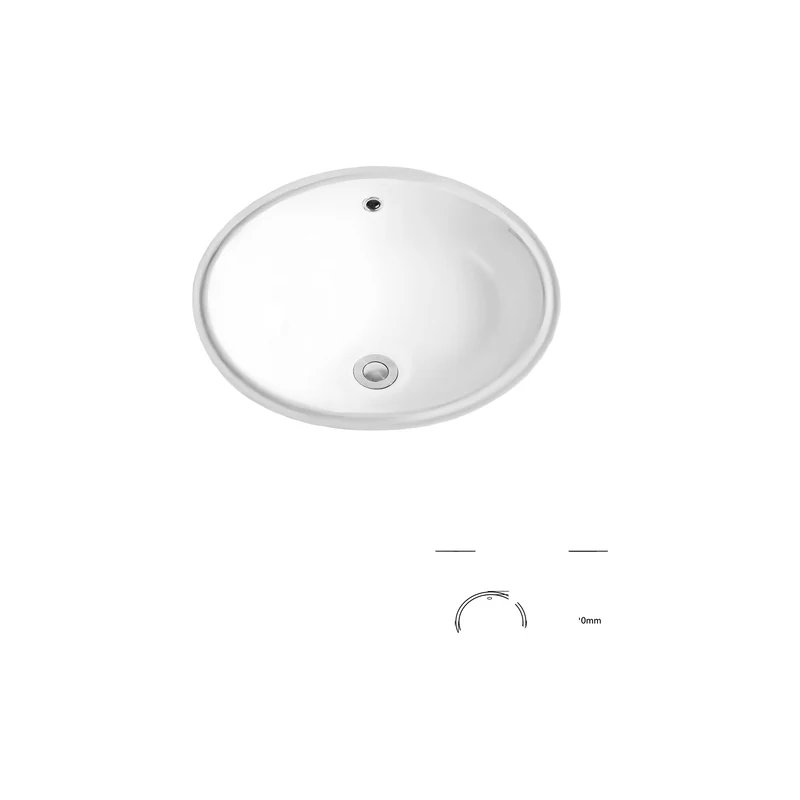
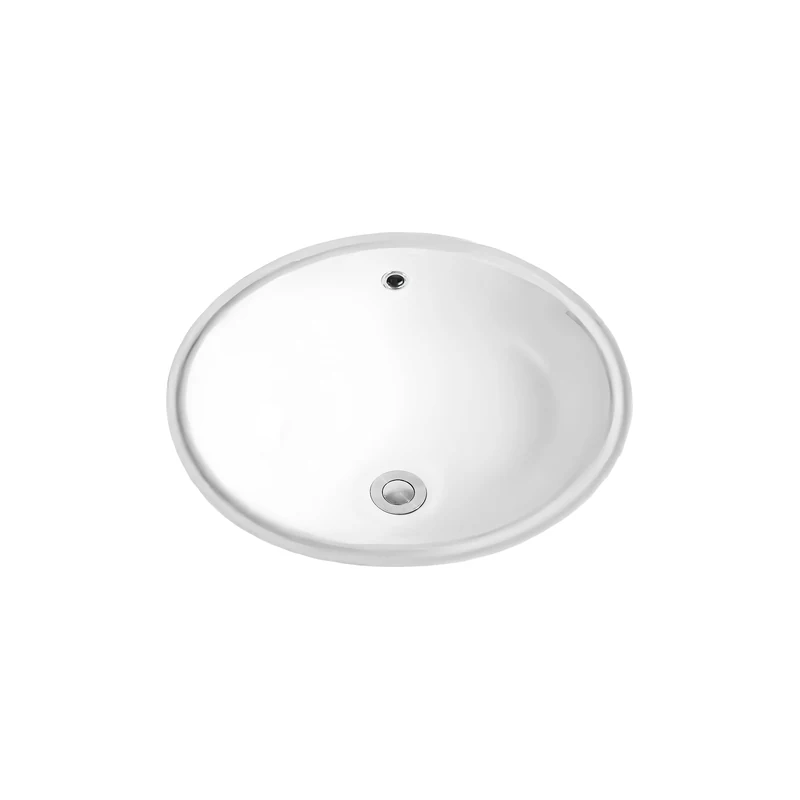
Washbasin cards: connected-components basin detection
Fixes two issues the fuzz-trim approach couldn't handle:
- UB0422 (and other 产品首页展示图 sources) carried a small
  dimension drawing in the lower part of the source. A plain
  -trim included it in the bounding box, so centering the
  basin+drawing pair pushed the basin to the top-left.
- Watermark text top-left similarly skewed the trim box.

New pipeline: threshold the source, run 8-connected component
analysis, pick the largest content blob (the basin — area ~2.4M
vs ~12k for the drawing, ~4k for the watermark), crop to its
bounding box +4% padding, then trim/resize/centre. Watermark
and dimension drawing are excluded automatically regardless of
where they sit. All 38 washbasins re-rendered, 0 fallbacks.

Cards cache-busted ?v=3 -> ?v=4.

diff --git a/products/index.html b/products/index.html
@@ -318,7 +318,7 @@ const ICONS = window.CHENGDA_ICONS || {};
 const CATS = {
   washbasin: { title:'Washbasin.', sub:['38 models','Semi-recessed CB · Undercounter UB','CUPC certified'], icon:'washbasin',
     tabs:[{id:'all',label:'All',count:38},{id:'UB01',label:'UB01 Slanted rect.',count:11},{id:'UB02',label:'UB02 Stepped rect.',count:3},{id:'UB03',label:'UB03 Flat rect.',count:5},{id:'UB04',label:'UB04 Slanted round',count:11},{id:'UB05',label:'UB05 Wave rect.',count:2},{id:'CB01',label:'CB01 Round · no hole',count:3},{id:'CB02',label:'CB02 Round · tap hole',count:3}],
-    items:[{code:"UB0116",name:"UB0116 · Slanted rectangular · 16″",dims:"410 × 290 × 180 mm",sub:"UB01",img:"/assets/products/UB0116/card.webp?v=3"},{code:"UB0118",name:"UB0118 · Slanted rectangular · 18″",dims:"445 × 340 × 200 mm",sub:"UB01",img:"/assets/products/UB0118/card.webp?v=3"},{code:"UB0118-A",name:"UB0118-A · Slanted rectangular · 18″ · A",dims:"455 × 345 × 200 mm",sub:"UB01",img:"/assets/products/UB0118-A/card.webp?v=3"},{code:"UB0120",name:"UB0120 · Slanted rectangular · 20″",dims:"525 × 385 × 190 mm",sub:"UB01",img:"/assets/products/UB0120/card.webp?v=3"},{code:"UB0121",name:"UB0121 · Slanted rectangular · 21″",dims:"540 × 370 × 190 mm",sub:"UB01",img:"/assets/products/UB0121/card.webp?v=3"},{code:"UB0121-D",name:"UB0121-D · Slanted rectangular · 21″ · D",dims:"21″",sub:"UB01",img:"/assets/products/UB0121-D/card.webp?v=3"},{code:"UB0122",name:"UB0122 · Slanted rectangular · 22″",dims:"545 × 375 × 195 mm",sub:"UB01",img:"/assets/products/UB0122/card.webp?v=3"},{code:"UB0124",name:"UB0124 · Slanted rectangular · 24″",dims:"24″",sub:"UB01",img:"/assets/products/UB0124/card.webp?v=3"},{code:"UB0124-A",name:"UB0124-A · Slanted rectangular · 24″ · A",dims:"600 × 400 × 190 mm",sub:"UB01",img:"/assets/products/UB0124-A/card.webp?v=3"},{code:"UB0124-D",name:"UB0124-D · Slanted rectangular · 24″ · D",dims:"24″",sub:"UB01",img:"/assets/products/UB0124-D/card.webp?v=3"},{code:"UB0126",name:"UB0126 · Slanted rectangular · 26″",dims:"26″",sub:"UB01",img:"/assets/products/UB0126/card.webp?v=3"},{code:"UB0218",name:"UB0218 · Stepped rectangular · 18″",dims:"440 × 310 × 190 mm",sub:"UB02",img:"/assets/products/UB0218/card.webp?v=3"},{code:"UB0219",name:"UB0219 · Stepped rectangular · 19″",dims:"510 × 340 × 195 mm",sub:"UB02",img:"/assets/products/UB0219/card.webp?v=3"},{code:"UB0221",name:"UB0221 · Stepped rectangular · 21″",dims:"530 × 345 × 185 mm",sub:"UB02",img:"/assets/products/UB0221/card.webp?v=3"},{code:"UB0316",name:"UB0316 · Flat-base rectangular · 16″",dims:"16″",sub:"UB03",img:"/assets/products/UB0316/card.webp?v=3"},{code:"UB0318",name:"UB0318 · Flat-base rectangular · 18″",dims:"18″",sub:"UB03",img:"/assets/products/UB0318/card.webp?v=3"},{code:"UB0320",name:"UB0320 · Flat-base rectangular · 20″",dims:"510 × 360 × 180 mm",sub:"UB03",img:"/assets/products/UB0320/card.webp?v=3"},{code:"UB0322",name:"UB0322 · Flat-base rectangular · 22″",dims:"540 × 380 × 185 mm",sub:"UB03",img:"/assets/products/UB0322/card.webp?v=3"},{code:"UB0324",name:"UB0324 · Flat-base rectangular · 24″",dims:"600 × 380 × 190 mm",sub:"UB03",img:"/assets/products/UB0324/card.webp?v=3"},{code:"UB0413",name:"UB0413 · Slanted round · 13″",dims:"335 × 290 × 145 mm",sub:"UB04",img:"/assets/products/UB0413/card.webp?v=3"},{code:"UB0414",name:"UB0414 · Slanted round · 14″",dims:"370 × 315 × 150 mm",sub:"UB04",img:"/assets/products/UB0414/card.webp?v=3"},{code:"UB0415",name:"UB0415 · Slanted round · 15″",dims:"380 × 330 × 180 mm",sub:"UB04",img:"/assets/products/UB0415/card.webp?v=3"},{code:"UB0416",name:"UB0416 · Slanted round · 16″",dims:"420 × 340 × 170 mm",sub:"UB04",img:"/assets/products/UB0416/card.webp?v=3"},{code:"UB0417",name:"UB0417 · Slanted round · 17″",dims:"450 × 370 × 165 mm",sub:"UB04",img:"/assets/products/UB0417/card.webp?v=3"},{code:"UB0418",name:"UB0418 · Slanted round · 18″",dims:"480 × 385 × 175 mm",sub:"UB04",img:"/assets/products/UB0418/card.webp?v=3"},{code:"UB0418-1",name:"UB0418-1 · Slanted round · 18″ · 1",dims:"410 × 335 × 170 mm",sub:"UB04",img:"/assets/products/UB0418-1/card.webp?v=3"},{code:"UB0420",name:"UB0420 · Slanted round · 20″",dims:"490 × 400 × 200 mm",sub:"UB04",img:"/assets/products/UB0420/card.webp?v=3"},{code:"UB0420-1",name:"UB0420-1 · Slanted round · 20″ · 1",dims:"470 × 400 × 195 mm",sub:"UB04",img:"/assets/products/UB0420-1/card.webp?v=3"},{code:"UB0422",name:"UB0422 · Slanted round · 22″",dims:"535 × 435 × 200 mm",sub:"UB04",img:"/assets/products/UB0422/card.webp?v=3"},{code:"UB0424",name:"UB0424 · Slanted round · 24″",dims:"24″",sub:"UB04",img:"/assets/products/UB0424/card.webp?v=3"},{code:"UB0522",name:"UB0522 · Wave-base rectangular · 22″",dims:"22″",sub:"UB05",img:"/assets/products/UB0522/card.webp?v=3"},{code:"UB0523",name:"UB0523 · Wave-base rectangular · 23″",dims:"23″",sub:"UB05",img:"/assets/products/UB0523/card.webp?v=3"},{code:"CB0116",name:"CB0116 · Slanted round · no tap hole · 16″",dims:"410 × 310 × 180 mm",sub:"CB01",img:"/assets/products/CB0116/card.webp?v=3"},{code:"CB0118",name:"CB0118 · Slanted round · no tap hole · 18″",dims:"400 × 400 × 180 mm",sub:"CB01",img:"/assets/products/CB0118/card.webp?v=3"},{code:"CB0120",name:"CB0120 · Slanted round · no tap hole · 20″",dims:"510 × 420 × 200 mm",sub:"CB01",img:"/assets/products/CB0120/card.webp?v=3"},{code:"CB0218",name:"CB0218 · Slanted round · with tap hole · 18″",dims:"470 × 415 × 175 mm",sub:"CB02",img:"/assets/products/CB0218/card.webp?v=3"},{code:"CB0220",name:"CB0220 · Slanted round · with tap hole · 20″",dims:"510 × 460 × 200 mm",sub:"CB02",img:"/assets/products/CB0220/card.webp?v=3"},{code:"CB0222",name:"CB0222 · Slanted round · with tap hole · 22″",dims:"540 × 480 × 200 mm",sub:"CB02",img:"/assets/products/CB0222/card.webp?v=3"}]},
+    items:[{code:"UB0116",name:"UB0116 · Slanted rectangular · 16″",dims:"410 × 290 × 180 mm",sub:"UB01",img:"/assets/products/UB0116/card.webp?v=4"},{code:"UB0118",name:"UB0118 · Slanted rectangular · 18″",dims:"445 × 340 × 200 mm",sub:"UB01",img:"/assets/products/UB0118/card.webp?v=4"},{code:"UB0118-A",name:"UB0118-A · Slanted rectangular · 18″ · A",dims:"455 × 345 × 200 mm",sub:"UB01",img:"/assets/products/UB0118-A/card.webp?v=4"},{code:"UB0120",name:"UB0120 · Slanted rectangular · 20″",dims:"525 × 385 × 190 mm",sub:"UB01",img:"/assets/products/UB0120/card.webp?v=4"},{code:"UB0121",name:"UB0121 · Slanted rectangular · 21″",dims:"540 × 370 × 190 mm",sub:"UB01",img:"/assets/products/UB0121/card.webp?v=4"},{code:"UB0121-D",name:"UB0121-D · Slanted rectangular · 21″ · D",dims:"21″",sub:"UB01",img:"/assets/products/UB0121-D/card.webp?v=4"},{code:"UB0122",name:"UB0122 · Slanted rectangular · 22″",dims:"545 × 375 × 195 mm",sub:"UB01",img:"/assets/products/UB0122/card.webp?v=4"},{code:"UB0124",name:"UB0124 · Slanted rectangular · 24″",dims:"24″",sub:"UB01",img:"/assets/products/UB0124/card.webp?v=4"},{code:"UB0124-A",name:"UB0124-A · Slanted rectangular · 24″ · A",dims:"600 × 400 × 190 mm",sub:"UB01",img:"/assets/products/UB0124-A/card.webp?v=4"},{code:"UB0124-D",name:"UB0124-D · Slanted rectangular · 24″ · D",dims:"24″",sub:"UB01",img:"/assets/products/UB0124-D/card.webp?v=4"},{code:"UB0126",name:"UB0126 · Slanted rectangular · 26″",dims:"26″",sub:"UB01",img:"/assets/products/UB0126/card.webp?v=4"},{code:"UB0218",name:"UB0218 · Stepped rectangular · 18″",dims:"440 × 310 × 190 mm",sub:"UB02",img:"/assets/products/UB0218/card.webp?v=4"},{code:"UB0219",name:"UB0219 · Stepped rectangular · 19″",dims:"510 × 340 × 195 mm",sub:"UB02",img:"/assets/products/UB0219/card.webp?v=4"},{code:"UB0221",name:"UB0221 · Stepped rectangular · 21″",dims:"530 × 345 × 185 mm",sub:"UB02",img:"/assets/products/UB0221/card.webp?v=4"},{code:"UB0316",name:"UB0316 · Flat-base rectangular · 16″",dims:"16″",sub:"UB03",img:"/assets/products/UB0316/card.webp?v=4"},{code:"UB0318",name:"UB0318 · Flat-base rectangular · 18″",dims:"18″",sub:"UB03",img:"/assets/products/UB0318/card.webp?v=4"},{code:"UB0320",name:"UB0320 · Flat-base rectangular · 20″",dims:"510 × 360 × 180 mm",sub:"UB03",img:"/assets/products/UB0320/card.webp?v=4"},{code:"UB0322",name:"UB0322 · Flat-base rectangular · 22″",dims:"540 × 380 × 185 mm",sub:"UB03",img:"/assets/products/UB0322/card.webp?v=4"},{code:"UB0324",name:"UB0324 · Flat-base rectangular · 24″",dims:"600 × 380 × 190 mm",sub:"UB03",img:"/assets/products/UB0324/card.webp?v=4"},{code:"UB0413",name:"UB0413 · Slanted round · 13″",dims:"335 × 290 × 145 mm",sub:"UB04",img:"/assets/products/UB0413/card.webp?v=4"},{code:"UB0414",name:"UB0414 · Slanted round · 14″",dims:"370 × 315 × 150 mm",sub:"UB04",img:"/assets/products/UB0414/card.webp?v=4"},{code:"UB0415",name:"UB0415 · Slanted round · 15″",dims:"380 × 330 × 180 mm",sub:"UB04",img:"/assets/products/UB0415/card.webp?v=4"},{code:"UB0416",name:"UB0416 · Slanted round · 16″",dims:"420 × 340 × 170 mm",sub:"UB04",img:"/assets/products/UB0416/card.webp?v=4"},{code:"UB0417",name:"UB0417 · Slanted round · 17″",dims:"450 × 370 × 165 mm",sub:"UB04",img:"/assets/products/UB0417/card.webp?v=4"},{code:"UB0418",name:"UB0418 · Slanted round · 18″",dims:"480 × 385 × 175 mm",sub:"UB04",img:"/assets/products/UB0418/card.webp?v=4"},{code:"UB0418-1",name:"UB0418-1 · Slanted round · 18″ · 1",dims:"410 × 335 × 170 mm",sub:"UB04",img:"/assets/products/UB0418-1/card.webp?v=4"},{code:"UB0420",name:"UB0420 · Slanted round · 20″",dims:"490 × 400 × 200 mm",sub:"UB04",img:"/assets/products/UB0420/card.webp?v=4"},{code:"UB0420-1",name:"UB0420-1 · Slanted round · 20″ · 1",dims:"470 × 400 × 195 mm",sub:"UB04",img:"/assets/products/UB0420-1/card.webp?v=4"},{code:"UB0422",name:"UB0422 · Slanted round · 22″",dims:"535 × 435 × 200 mm",sub:"UB04",img:"/assets/products/UB0422/card.webp?v=4"},{code:"UB0424",name:"UB0424 · Slanted round · 24″",dims:"24″",sub:"UB04",img:"/assets/products/UB0424/card.webp?v=4"},{code:"UB0522",name:"UB0522 · Wave-base rectangular · 22″",dims:"22″",sub:"UB05",img:"/assets/products/UB0522/card.webp?v=4"},{code:"UB0523",name:"UB0523 · Wave-base rectangular · 23″",dims:"23″",sub:"UB05",img:"/assets/products/UB0523/card.webp?v=4"},{code:"CB0116",name:"CB0116 · Slanted round · no tap hole · 16″",dims:"410 × 310 × 180 mm",sub:"CB01",img:"/assets/products/CB0116/card.webp?v=4"},{code:"CB0118",name:"CB0118 · Slanted round · no tap hole · 18″",dims:"400 × 400 × 180 mm",sub:"CB01",img:"/assets/products/CB0118/card.webp?v=4"},{code:"CB0120",name:"CB0120 · Slanted round · no tap hole · 20″",dims:"510 × 420 × 200 mm",sub:"CB01",img:"/assets/products/CB0120/card.webp?v=4"},{code:"CB0218",name:"CB0218 · Slanted round · with tap hole · 18″",dims:"470 × 415 × 175 mm",sub:"CB02",img:"/assets/products/CB0218/card.webp?v=4"},{code:"CB0220",name:"CB0220 · Slanted round · with tap hole · 20″",dims:"510 × 460 × 200 mm",sub:"CB02",img:"/assets/products/CB0220/card.webp?v=4"},{code:"CB0222",name:"CB0222 · Slanted round · with tap hole · 22″",dims:"540 × 480 × 200 mm",sub:"CB02",img:"/assets/products/CB0222/card.webp?v=4"}]},
   pedestal: { title:'Pedestal Basin.', sub:['54 models','Floor pedestal PB · Wall-hung basin WB','CUPC certified'], icon:'pedestal',
     tabs:[{id:'all',label:'All',count:54},{id:'floor',label:'Floor pedestal',count:45},{id:'wall',label:'Wall-hung basin',count:9}],
     items:[{code:"PB101",name:"PB101 · Floor pedestal basin · single tap hole",dims:"520 × 550 × 850 mm",sub:"floor",img:"/assets/products/PB101/card.webp?v=2"},{code:"PB102",name:"PB102 · Floor pedestal basin · single tap hole",dims:"500 × 500 × 850 mm",sub:"floor",img:"/assets/products/PB102/card.webp?v=2"},{code:"PB103",name:"PB103 · Floor pedestal basin · single tap hole",dims:"580 × 420 × 855 mm",sub:"floor",img:"/assets/products/PB103/card.webp?v=2"},{code:"PB104",name:"PB104 · Floor pedestal basin · single tap hole",dims:"425 × 425 × 950 mm",sub:"floor",img:"/assets/products/PB104/card.webp?v=2"},{code:"PB105",name:"PB105 · Floor pedestal basin · single tap hole",dims:"460 × 460 × 860 mm",sub:"floor",img:"/assets/products/PB105/card.webp?v=2"},{code:"PB106",name:"PB106 · Floor pedestal basin · single tap hole",dims:"540 × 400 × 840 mm",sub:"floor",img:"/assets/products/PB106/card.webp?v=2"},{code:"PB107",name:"PB107 · Floor pedestal basin · single tap hole",dims:"550 × 480 × 850 mm",sub:"floor",img:"/assets/products/PB107/card.webp?v=2"},{code:"PB108",name:"PB108 · Floor pedestal basin · single tap hole",dims:"510 × 460 × 830 mm",sub:"floor",img:"/assets/products/PB108/card.webp?v=2"},{code:"PB109",name:"PB109 · Floor pedestal basin · single tap hole",dims:"450 × 460 × 960 mm",sub:"floor",img:"/assets/products/PB109/card.webp?v=2"},{code:"PB110",name:"PB110 · Floor pedestal basin · single tap hole",dims:"460 × 460 × 850 mm",sub:"floor",img:"/assets/products/PB110/card.webp?v=2"},{code:"PB111",name:"PB111 · Floor pedestal basin · single tap hole",dims:"375 × 360 × 830 mm",sub:"floor",img:"/assets/products/PB111/card.webp?v=2"},{code:"PB112",name:"PB112 · Floor pedestal basin · single tap hole",dims:"340 × 320 × 820 mm",sub:"floor",img:"/assets/products/PB112/card.webp?v=2"},{code:"PB113",name:"PB113 · Floor pedestal basin · single tap hole",dims:"470 × 320 × 840 mm",sub:"floor",img:"/assets/products/PB113/card.webp?v=2"},{code:"PB114",name:"PB114 · Floor pedestal basin · single tap hole",dims:"455 × 385 × 870 mm",sub:"floor",img:"/assets/products/PB114/card.webp?v=2"},{code:"PB115",name:"PB115 · Floor pedestal basin · single tap hole",dims:"460 × 340 × 850 mm",sub:"floor",img:"/assets/products/PB115/card.webp?v=2"},{code:"PB116",name:"PB116 · Floor pedestal basin · single tap hole",dims:"440 × 390 × 860 mm",sub:"floor",img:"/assets/products/PB116/card.webp?v=2"},{code:"PB117",name:"PB117 · Floor pedestal basin · single tap hole",dims:"—",sub:"floor",img:"/assets/products/PB117/card.webp?v=2"},{code:"PB118",name:"PB118 · Floor pedestal basin · single tap hole",dims:"—",sub:"floor",img:"/assets/products/PB118/card.webp?v=2"},{code:"PB119",name:"PB119 · Floor pedestal basin · single tap hole",dims:"—",sub:"floor",img:"/assets/products/PB119/card.webp?v=2"},{code:"PB120",name:"PB120 · Floor pedestal basin · single tap hole",dims:"—",sub:"floor",img:"/assets/products/PB120/card.webp?v=2"},{code:"PB121",name:"PB121 · Floor pedestal basin · single tap hole",dims:"—",sub:"floor",img:"/assets/products/PB121/card.webp?v=2"},{code:"PB122",name:"PB122 · Floor pedestal basin · single tap hole",dims:"—",sub:"floor",img:"/assets/products/PB122/card.webp?v=2"},{code:"PB123",name:"PB123 · Floor pedestal basin · single tap hole",dims:"—",sub:"floor",img:"/assets/products/PB123/card.webp?v=2"},{code:"PB124",name:"PB124 · Floor pedestal basin · single tap hole",dims:"—",sub:"floor",img:"/assets/products/PB124/card.webp?v=2"},{code:"PB125",name:"PB125 · Floor pedestal basin · single tap hole",dims:"—",sub:"floor",img:"/assets/products/PB125/card.webp?v=2"},{code:"PB201",name:"PB201 · Floor pedestal basin",dims:"460 × 460 × 850 mm",sub:"floor",img:"/assets/products/PB201/card.webp?v=2"},{code:"PB202",name:"PB202 · Floor pedestal basin",dims:"400 × 400 × 850 mm",sub:"floor",img:"/assets/products/PB202/card.webp?v=2"},{code:"PB203",name:"PB203 · Floor pedestal basin",dims:"460 × 460 × 830 mm",sub:"floor",img:"/assets/products/PB203/card.webp?v=2"},{code:"PB204",name:"PB204 · Floor pedestal basin",dims:"465 × 465 × 870 mm",sub:"floor",img:"/assets/products/PB204/card.webp?v=2"},{code:"PB205",name:"PB205 · Floor pedestal basin",dims:"400 × 400 × 850 mm",sub:"floor",img:"/assets/products/PB205/card.webp?v=2"},{code:"PB206",name:"PB206 · Floor pedestal basin",dims:"500 × 380 × 860 mm",sub:"floor",img:"/assets/products/PB206/card.webp?v=2"},{code:"PB207",name:"PB207 · Floor pedestal basin",dims:"625 × 420 × 845 mm",sub:"floor",img:"/assets/products/PB207/card.webp?v=2"},{code:"PB208",name:"PB208 · Floor pedestal basin",dims:"605 × 410 × 845 mm",sub:"floor",img:"/assets/products/PB208/card.webp?v=2"},{code:"PB209",name:"PB209 · Floor pedestal basin",dims:"470 × 400 × 870 mm",sub:"floor",img:"/assets/products/PB209/card.webp?v=2"},{code:"PB210",name:"PB210 · Floor pedestal basin",dims:"500 × 500 × 890 mm",sub:"floor",img:"/assets/products/PB210/card.webp?v=2"},{code:"PB211",name:"PB211 · Floor pedestal basin",dims:"360 × 360 × 860 mm",sub:"floor",img:"/assets/products/PB211/card.webp?v=2"},{code:"PB212",name:"PB212 · Floor pedestal basin",dims:"400 × 400 × 860 mm",sub:"floor",img:"/assets/products/PB212/card.webp?v=2"},{code:"PB213",name:"PB213 · Floor pedestal basin",dims:"—",sub:"floor",img:"/assets/products/PB213/card.webp?v=2"},{code:"PB214",name:"PB214 · Floor pedestal basin",dims:"—",sub:"floor",img:"/assets/products/PB214/card.webp?v=2"},{code:"PB215",name:"PB215 · Floor pedestal basin",dims:"—",sub:"floor",img:"/assets/products/PB215/card.webp?v=2"},{code:"PB216",name:"PB216 · Floor pedestal basin",dims:"—",sub:"floor",img:"/assets/products/PB216/card.webp?v=2"},{code:"PB217",name:"PB217 · Floor pedestal basin",dims:"—",sub:"floor",img:"/assets/products/PB217/card.webp?v=2"},{code:"PB218",name:"PB218 · Floor pedestal basin",dims:"—",sub:"floor",img:"/assets/products/PB218/card.webp?v=2"},{code:"PB219",name:"PB219 · Floor pedestal basin",dims:"—",sub:"floor",img:"/assets/products/PB219/card.webp?v=2"},{code:"PB220",name:"PB220 · Floor pedestal basin",dims:"—",sub:"floor",img:"/assets/products/PB220/card.webp?v=2"},{code:"WB100",name:"WB100 · Wall-hung basin",dims:"515 × 515 × 440 mm",sub:"wall",img:"/assets/products/WB100/card.webp?v=3"},{code:"WB101",name:"WB101 · Wall-hung basin",dims:"500 × 410 × 400 mm",sub:"wall",img:"/assets/products/WB101/card.webp?v=3"},{code:"WB102",name:"WB102 · Wall-hung basin",dims:"450 × 400 × 390 mm",sub:"wall",img:"/assets/products/WB102/card.webp?v=3"},{code:"WB103",name:"WB103 · Wall-hung basin",dims:"385 × 385 × 610 mm",sub:"wall",img:"/assets/products/WB103/card.webp?v=3"},{code:"WB104",name:"WB104 · Wall-hung basin",dims:"360 × 415 × 445 mm",sub:"wall",img:"/assets/products/WB104/card.webp?v=3"},{code:"WB105",name:"WB105 · Wall-hung basin",dims:"375 × 345 × 420 mm",sub:"wall",img:"/assets/products/WB105/card.webp?v=3"},{code:"WB106",name:"WB106 · Wall-hung basin",dims:"395 × 310 × 385 mm",sub:"wall",img:"/assets/products/WB106/card.webp?v=3"},{code:"WB107",name:"WB107 · Wall-hung basin",dims:"510 × 350 × 390 mm",sub:"wall",img:"/assets/products/WB107/card.webp?v=3"},{code:"WB108",name:"WB108 · Wall-hung basin",dims:"420 × 420 × 390 mm",sub:"wall",img:"/assets/products/WB108/card.webp?v=3"}]},

diff --git a/zh/products/index.html b/zh/products/index.html
@@ -318,7 +318,7 @@ const ICONS = window.CHENGDA_ICONS || {};
 const CATS = {
   washbasin: { title:'面盆。', sub:['38 款式 · 真實貨號','台中盆 CB · 台下盆 UB','CUPC 認證'], icon:'washbasin',
     tabs:[{id:'all',label:'全部',count:38},{id:'UB01',label:'UB01 斜底方盆',count:11},{id:'UB02',label:'UB02 梯底方盆',count:3},{id:'UB03',label:'UB03 平底方盆',count:5},{id:'UB04',label:'UB04 斜底圓盆',count:11},{id:'UB05',label:'UB05 波浪底方盆',count:2},{id:'CB01',label:'CB01 圓盆 無孔',count:3},{id:'CB02',label:'CB02 圓盆 有孔',count:3}],
-    items:[{code:"UB0116",name:"UB0116 · 斜底方盆 · 16″",dims:"410 × 290 × 180 mm",sub:"UB01",img:"/assets/products/UB0116/card.webp?v=3"},{code:"UB0118",name:"UB0118 · 斜底方盆 · 18″",dims:"445 × 340 × 200 mm",sub:"UB01",img:"/assets/products/UB0118/card.webp?v=3"},{code:"UB0118-A",name:"UB0118-A · 斜底方盆 · 18″ · A",dims:"455 × 345 × 200 mm",sub:"UB01",img:"/assets/products/UB0118-A/card.webp?v=3"},{code:"UB0120",name:"UB0120 · 斜底方盆 · 20″",dims:"525 × 385 × 190 mm",sub:"UB01",img:"/assets/products/UB0120/card.webp?v=3"},{code:"UB0121",name:"UB0121 · 斜底方盆 · 21″",dims:"540 × 370 × 190 mm",sub:"UB01",img:"/assets/products/UB0121/card.webp?v=3"},{code:"UB0121-D",name:"UB0121-D · 斜底方盆 · 21″ · D",dims:"21″",sub:"UB01",img:"/assets/products/UB0121-D/card.webp?v=3"},{code:"UB0122",name:"UB0122 · 斜底方盆 · 22″",dims:"545 × 375 × 195 mm",sub:"UB01",img:"/assets/products/UB0122/card.webp?v=3"},{code:"UB0124",name:"UB0124 · 斜底方盆 · 24″",dims:"24″",sub:"UB01",img:"/assets/products/UB0124/card.webp?v=3"},{code:"UB0124-A",name:"UB0124-A · 斜底方盆 · 24″ · A",dims:"600 × 400 × 190 mm",sub:"UB01",img:"/assets/products/UB0124-A/card.webp?v=3"},{code:"UB0124-D",name:"UB0124-D · 斜底方盆 · 24″ · D",dims:"24″",sub:"UB01",img:"/assets/products/UB0124-D/card.webp?v=3"},{code:"UB0126",name:"UB0126 · 斜底方盆 · 26″",dims:"26″",sub:"UB01",img:"/assets/products/UB0126/card.webp?v=3"},{code:"UB0218",name:"UB0218 · 梯底方盆 · 18″",dims:"440 × 310 × 190 mm",sub:"UB02",img:"/assets/products/UB0218/card.webp?v=3"},{code:"UB0219",name:"UB0219 · 梯底方盆 · 19″",dims:"510 × 340 × 195 mm",sub:"UB02",img:"/assets/products/UB0219/card.webp?v=3"},{code:"UB0221",name:"UB0221 · 梯底方盆 · 21″",dims:"530 × 345 × 185 mm",sub:"UB02",img:"/assets/products/UB0221/card.webp?v=3"},{code:"UB0316",name:"UB0316 · 平底方盆 · 16″",dims:"16″",sub:"UB03",img:"/assets/products/UB0316/card.webp?v=3"},{code:"UB0318",name:"UB0318 · 平底方盆 · 18″",dims:"18″",sub:"UB03",img:"/assets/products/UB0318/card.webp?v=3"},{code:"UB0320",name:"UB0320 · 平底方盆 · 20″",dims:"510 × 360 × 180 mm",sub:"UB03",img:"/assets/products/UB0320/card.webp?v=3"},{code:"UB0322",name:"UB0322 · 平底方盆 · 22″",dims:"540 × 380 × 185 mm",sub:"UB03",img:"/assets/products/UB0322/card.webp?v=3"},{code:"UB0324",name:"UB0324 · 平底方盆 · 24″",dims:"600 × 380 × 190 mm",sub:"UB03",img:"/assets/products/UB0324/card.webp?v=3"},{code:"UB0413",name:"UB0413 · 斜底圓盆 · 13″",dims:"335 × 290 × 145 mm",sub:"UB04",img:"/assets/products/UB0413/card.webp?v=3"},{code:"UB0414",name:"UB0414 · 斜底圓盆 · 14″",dims:"370 × 315 × 150 mm",sub:"UB04",img:"/assets/products/UB0414/card.webp?v=3"},{code:"UB0415",name:"UB0415 · 斜底圓盆 · 15″",dims:"380 × 330 × 180 mm",sub:"UB04",img:"/assets/products/UB0415/card.webp?v=3"},{code:"UB0416",name:"UB0416 · 斜底圓盆 · 16″",dims:"420 × 340 × 170 mm",sub:"UB04",img:"/assets/products/UB0416/card.webp?v=3"},{code:"UB0417",name:"UB0417 · 斜底圓盆 · 17″",dims:"450 × 370 × 165 mm",sub:"UB04",img:"/assets/products/UB0417/card.webp?v=3"},{code:"UB0418",name:"UB0418 · 斜底圓盆 · 18″",dims:"480 × 385 × 175 mm",sub:"UB04",img:"/assets/products/UB0418/card.webp?v=3"},{code:"UB0418-1",name:"UB0418-1 · 斜底圓盆 · 18″ · 1",dims:"410 × 335 × 170 mm",sub:"UB04",img:"/assets/products/UB0418-1/card.webp?v=3"},{code:"UB0420",name:"UB0420 · 斜底圓盆 · 20″",dims:"490 × 400 × 200 mm",sub:"UB04",img:"/assets/products/UB0420/card.webp?v=3"},{code:"UB0420-1",name:"UB0420-1 · 斜底圓盆 · 20″ · 1",dims:"470 × 400 × 195 mm",sub:"UB04",img:"/assets/products/UB0420-1/card.webp?v=3"},{code:"UB0422",name:"UB0422 · 斜底圓盆 · 22″",dims:"535 × 435 × 200 mm",sub:"UB04",img:"/assets/products/UB0422/card.webp?v=3"},{code:"UB0424",name:"UB0424 · 斜底圓盆 · 24″",dims:"24″",sub:"UB04",img:"/assets/products/UB0424/card.webp?v=3"},{code:"UB0522",name:"UB0522 · 波浪底方盆 · 22″",dims:"22″",sub:"UB05",img:"/assets/products/UB0522/card.webp?v=3"},{code:"UB0523",name:"UB0523 · 波浪底方盆 · 23″",dims:"23″",sub:"UB05",img:"/assets/products/UB0523/card.webp?v=3"},{code:"CB0116",name:"CB0116 · 斜底圓盆 · 無龍頭孔 · 16″",dims:"410 × 310 × 180 mm",sub:"CB01",img:"/assets/products/CB0116/card.webp?v=3"},{code:"CB0118",name:"CB0118 · 斜底圓盆 · 無龍頭孔 · 18″",dims:"400 × 400 × 180 mm",sub:"CB01",img:"/assets/products/CB0118/card.webp?v=3"},{code:"CB0120",name:"CB0120 · 斜底圓盆 · 無龍頭孔 · 20″",dims:"510 × 420 × 200 mm",sub:"CB01",img:"/assets/products/CB0120/card.webp?v=3"},{code:"CB0218",name:"CB0218 · 斜底圓盆 · 有龍頭孔 · 18″",dims:"470 × 415 × 175 mm",sub:"CB02",img:"/assets/products/CB0218/card.webp?v=3"},{code:"CB0220",name:"CB0220 · 斜底圓盆 · 有龍頭孔 · 20″",dims:"510 × 460 × 200 mm",sub:"CB02",img:"/assets/products/CB0220/card.webp?v=3"},{code:"CB0222",name:"CB0222 · 斜底圓盆 · 有龍頭孔 · 22″",dims:"540 × 480 × 200 mm",sub:"CB02",img:"/assets/products/CB0222/card.webp?v=3"}]},
+    items:[{code:"UB0116",name:"UB0116 · 斜底方盆 · 16″",dims:"410 × 290 × 180 mm",sub:"UB01",img:"/assets/products/UB0116/card.webp?v=4"},{code:"UB0118",name:"UB0118 · 斜底方盆 · 18″",dims:"445 × 340 × 200 mm",sub:"UB01",img:"/assets/products/UB0118/card.webp?v=4"},{code:"UB0118-A",name:"UB0118-A · 斜底方盆 · 18″ · A",dims:"455 × 345 × 200 mm",sub:"UB01",img:"/assets/products/UB0118-A/card.webp?v=4"},{code:"UB0120",name:"UB0120 · 斜底方盆 · 20″",dims:"525 × 385 × 190 mm",sub:"UB01",img:"/assets/products/UB0120/card.webp?v=4"},{code:"UB0121",name:"UB0121 · 斜底方盆 · 21″",dims:"540 × 370 × 190 mm",sub:"UB01",img:"/assets/products/UB0121/card.webp?v=4"},{code:"UB0121-D",name:"UB0121-D · 斜底方盆 · 21″ · D",dims:"21″",sub:"UB01",img:"/assets/products/UB0121-D/card.webp?v=4"},{code:"UB0122",name:"UB0122 · 斜底方盆 · 22″",dims:"545 × 375 × 195 mm",sub:"UB01",img:"/assets/products/UB0122/card.webp?v=4"},{code:"UB0124",name:"UB0124 · 斜底方盆 · 24″",dims:"24″",sub:"UB01",img:"/assets/products/UB0124/card.webp?v=4"},{code:"UB0124-A",name:"UB0124-A · 斜底方盆 · 24″ · A",dims:"600 × 400 × 190 mm",sub:"UB01",img:"/assets/products/UB0124-A/card.webp?v=4"},{code:"UB0124-D",name:"UB0124-D · 斜底方盆 · 24″ · D",dims:"24″",sub:"UB01",img:"/assets/products/UB0124-D/card.webp?v=4"},{code:"UB0126",name:"UB0126 · 斜底方盆 · 26″",dims:"26″",sub:"UB01",img:"/assets/products/UB0126/card.webp?v=4"},{code:"UB0218",name:"UB0218 · 梯底方盆 · 18″",dims:"440 × 310 × 190 mm",sub:"UB02",img:"/assets/products/UB0218/card.webp?v=4"},{code:"UB0219",name:"UB0219 · 梯底方盆 · 19″",dims:"510 × 340 × 195 mm",sub:"UB02",img:"/assets/products/UB0219/card.webp?v=4"},{code:"UB0221",name:"UB0221 · 梯底方盆 · 21″",dims:"530 × 345 × 185 mm",sub:"UB02",img:"/assets/products/UB0221/card.webp?v=4"},{code:"UB0316",name:"UB0316 · 平底方盆 · 16″",dims:"16″",sub:"UB03",img:"/assets/products/UB0316/card.webp?v=4"},{code:"UB0318",name:"UB0318 · 平底方盆 · 18″",dims:"18″",sub:"UB03",img:"/assets/products/UB0318/card.webp?v=4"},{code:"UB0320",name:"UB0320 · 平底方盆 · 20″",dims:"510 × 360 × 180 mm",sub:"UB03",img:"/assets/products/UB0320/card.webp?v=4"},{code:"UB0322",name:"UB0322 · 平底方盆 · 22″",dims:"540 × 380 × 185 mm",sub:"UB03",img:"/assets/products/UB0322/card.webp?v=4"},{code:"UB0324",name:"UB0324 · 平底方盆 · 24″",dims:"600 × 380 × 190 mm",sub:"UB03",img:"/assets/products/UB0324/card.webp?v=4"},{code:"UB0413",name:"UB0413 · 斜底圓盆 · 13″",dims:"335 × 290 × 145 mm",sub:"UB04",img:"/assets/products/UB0413/card.webp?v=4"},{code:"UB0414",name:"UB0414 · 斜底圓盆 · 14″",dims:"370 × 315 × 150 mm",sub:"UB04",img:"/assets/products/UB0414/card.webp?v=4"},{code:"UB0415",name:"UB0415 · 斜底圓盆 · 15″",dims:"380 × 330 × 180 mm",sub:"UB04",img:"/assets/products/UB0415/card.webp?v=4"},{code:"UB0416",name:"UB0416 · 斜底圓盆 · 16″",dims:"420 × 340 × 170 mm",sub:"UB04",img:"/assets/products/UB0416/card.webp?v=4"},{code:"UB0417",name:"UB0417 · 斜底圓盆 · 17″",dims:"450 × 370 × 165 mm",sub:"UB04",img:"/assets/products/UB0417/card.webp?v=4"},{code:"UB0418",name:"UB0418 · 斜底圓盆 · 18″",dims:"480 × 385 × 175 mm",sub:"UB04",img:"/assets/products/UB0418/card.webp?v=4"},{code:"UB0418-1",name:"UB0418-1 · 斜底圓盆 · 18″ · 1",dims:"410 × 335 × 170 mm",sub:"UB04",img:"/assets/products/UB0418-1/card.webp?v=4"},{code:"UB0420",name:"UB0420 · 斜底圓盆 · 20″",dims:"490 × 400 × 200 mm",sub:"UB04",img:"/assets/products/UB0420/card.webp?v=4"},{code:"UB0420-1",name:"UB0420-1 · 斜底圓盆 · 20″ · 1",dims:"470 × 400 × 195 mm",sub:"UB04",img:"/assets/products/UB0420-1/card.webp?v=4"},{code:"UB0422",name:"UB0422 · 斜底圓盆 · 22″",dims:"535 × 435 × 200 mm",sub:"UB04",img:"/assets/products/UB0422/card.webp?v=4"},{code:"UB0424",name:"UB0424 · 斜底圓盆 · 24″",dims:"24″",sub:"UB04",img:"/assets/products/UB0424/card.webp?v=4"},{code:"UB0522",name:"UB0522 · 波浪底方盆 · 22″",dims:"22″",sub:"UB05",img:"/assets/products/UB0522/card.webp?v=4"},{code:"UB0523",name:"UB0523 · 波浪底方盆 · 23″",dims:"23″",sub:"UB05",img:"/assets/products/UB0523/card.webp?v=4"},{code:"CB0116",name:"CB0116 · 斜底圓盆 · 無龍頭孔 · 16″",dims:"410 × 310 × 180 mm",sub:"CB01",img:"/assets/products/CB0116/card.webp?v=4"},{code:"CB0118",name:"CB0118 · 斜底圓盆 · 無龍頭孔 · 18″",dims:"400 × 400 × 180 mm",sub:"CB01",img:"/assets/products/CB0118/card.webp?v=4"},{code:"CB0120",name:"CB0120 · 斜底圓盆 · 無龍頭孔 · 20″",dims:"510 × 420 × 200 mm",sub:"CB01",img:"/assets/products/CB0120/card.webp?v=4"},{code:"CB0218",name:"CB0218 · 斜底圓盆 · 有龍頭孔 · 18″",dims:"470 × 415 × 175 mm",sub:"CB02",img:"/assets/products/CB0218/card.webp?v=4"},{code:"CB0220",name:"CB0220 · 斜底圓盆 · 有龍頭孔 · 20″",dims:"510 × 460 × 200 mm",sub:"CB02",img:"/assets/products/CB0220/card.webp?v=4"},{code:"CB0222",name:"CB0222 · 斜底圓盆 · 有龍頭孔 · 22″",dims:"540 × 480 × 200 mm",sub:"CB02",img:"/assets/products/CB0222/card.webp?v=4"}]},
   pedestal: { title:'柱盆。', sub:['54 款式 · 真實貨號','立式柱盆 PB · 掛牆面盆 WB','CUPC 認證'], icon:'pedestal',
     tabs:[{id:'all',label:'全部',count:54},{id:'floor',label:'立式柱盆',count:45},{id:'wall',label:'掛牆面盆',count:9}],
     items:[{code:"PB101",name:"PB101 · 落地柱盆 · 單孔",dims:"520 × 550 × 850 mm",sub:"floor",img:"/assets/products/PB101/card.webp?v=2"},{code:"PB102",name:"PB102 · 落地柱盆 · 單孔",dims:"500 × 500 × 850 mm",sub:"floor",img:"/assets/products/PB102/card.webp?v=2"},{code:"PB103",name:"PB103 · 落地柱盆 · 單孔",dims:"580 × 420 × 855 mm",sub:"floor",img:"/assets/products/PB103/card.webp?v=2"},{code:"PB104",name:"PB104 · 落地柱盆 · 單孔",dims:"425 × 425 × 950 mm",sub:"floor",img:"/assets/products/PB104/card.webp?v=2"},{code:"PB105",name:"PB105 · 落地柱盆 · 單孔",dims:"460 × 460 × 860 mm",sub:"floor",img:"/assets/products/PB105/card.webp?v=2"},{code:"PB106",name:"PB106 · 落地柱盆 · 單孔",dims:"540 × 400 × 840 mm",sub:"floor",img:"/assets/products/PB106/card.webp?v=2"},{code:"PB107",name:"PB107 · 落地柱盆 · 單孔",dims:"550 × 480 × 850 mm",sub:"floor",img:"/assets/products/PB107/card.webp?v=2"},{code:"PB108",name:"PB108 · 落地柱盆 · 單孔",dims:"510 × 460 × 830 mm",sub:"floor",img:"/assets/products/PB108/card.webp?v=2"},{code:"PB109",name:"PB109 · 落地柱盆 · 單孔",dims:"450 × 460 × 960 mm",sub:"floor",img:"/assets/products/PB109/card.webp?v=2"},{code:"PB110",name:"PB110 · 落地柱盆 · 單孔",dims:"460 × 460 × 850 mm",sub:"floor",img:"/assets/products/PB110/card.webp?v=2"},{code:"PB111",name:"PB111 · 落地柱盆 · 單孔",dims:"375 × 360 × 830 mm",sub:"floor",img:"/assets/products/PB111/card.webp?v=2"},{code:"PB112",name:"PB112 · 落地柱盆 · 單孔",dims:"340 × 320 × 820 mm",sub:"floor",img:"/assets/products/PB112/card.webp?v=2"},{code:"PB113",name:"PB113 · 落地柱盆 · 單孔",dims:"470 × 320 × 840 mm",sub:"floor",img:"/assets/products/PB113/card.webp?v=2"},{code:"PB114",name:"PB114 · 落地柱盆 · 單孔",dims:"455 × 385 × 870 mm",sub:"floor",img:"/assets/products/PB114/card.webp?v=2"},{code:"PB115",name:"PB115 · 落地柱盆 · 單孔",dims:"460 × 340 × 850 mm",sub:"floor",img:"/assets/products/PB115/card.webp?v=2"},{code:"PB116",name:"PB116 · 落地柱盆 · 單孔",dims:"440 × 390 × 860 mm",sub:"floor",img:"/assets/products/PB116/card.webp?v=2"},{code:"PB117",name:"PB117 · 落地柱盆 · 單孔",dims:"—",sub:"floor",img:"/assets/products/PB117/card.webp?v=2"},{code:"PB118",name:"PB118 · 落地柱盆 · 單孔",dims:"—",sub:"floor",img:"/assets/products/PB118/card.webp?v=2"},{code:"PB119",name:"PB119 · 落地柱盆 · 單孔",dims:"—",sub:"floor",img:"/assets/products/PB119/card.webp?v=2"},{code:"PB120",name:"PB120 · 落地柱盆 · 單孔",dims:"—",sub:"floor",img:"/assets/products/PB120/card.webp?v=2"},{code:"PB121",name:"PB121 · 落地柱盆 · 單孔",dims:"—",sub:"floor",img:"/assets/products/PB121/card.webp?v=2"},{code:"PB122",name:"PB122 · 落地柱盆 · 單孔",dims:"—",sub:"floor",img:"/assets/products/PB122/card.webp?v=2"},{code:"PB123",name:"PB123 · 落地柱盆 · 單孔",dims:"—",sub:"floor",img:"/assets/products/PB123/card.webp?v=2"},{code:"PB124",name:"PB124 · 落地柱盆 · 單孔",dims:"—",sub:"floor",img:"/assets/products/PB124/card.webp?v=2"},{code:"PB125",name:"PB125 · 落地柱盆 · 單孔",dims:"—",sub:"floor",img:"/assets/products/PB125/card.webp?v=2"},{code:"PB201",name:"PB201 · 落地柱盆",dims:"460 × 460 × 850 mm",sub:"floor",img:"/assets/products/PB201/card.webp?v=2"},{code:"PB202",name:"PB202 · 落地柱盆",dims:"400 × 400 × 850 mm",sub:"floor",img:"/assets/products/PB202/card.webp?v=2"},{code:"PB203",name:"PB203 · 落地柱盆",dims:"460 × 460 × 830 mm",sub:"floor",img:"/assets/products/PB203/card.webp?v=2"},{code:"PB204",name:"PB204 · 落地柱盆",dims:"465 × 465 × 870 mm",sub:"floor",img:"/assets/products/PB204/card.webp?v=2"},{code:"PB205",name:"PB205 · 落地柱盆",dims:"400 × 400 × 850 mm",sub:"floor",img:"/assets/products/PB205/card.webp?v=2"},{code:"PB206",name:"PB206 · 落地柱盆",dims:"500 × 380 × 860 mm",sub:"floor",img:"/assets/products/PB206/card.webp?v=2"},{code:"PB207",name:"PB207 · 落地柱盆",dims:"625 × 420 × 845 mm",sub:"floor",img:"/assets/products/PB207/card.webp?v=2"},{code:"PB208",name:"PB208 · 落地柱盆",dims:"605 × 410 × 845 mm",sub:"floor",img:"/assets/products/PB208/card.webp?v=2"},{code:"PB209",name:"PB209 · 落地柱盆",dims:"470 × 400 × 870 mm",sub:"floor",img:"/assets/products/PB209/card.webp?v=2"},{code:"PB210",name:"PB210 · 落地柱盆",dims:"500 × 500 × 890 mm",sub:"floor",img:"/assets/products/PB210/card.webp?v=2"},{code:"PB211",name:"PB211 · 落地柱盆",dims:"360 × 360 × 860 mm",sub:"floor",img:"/assets/products/PB211/card.webp?v=2"},{code:"PB212",name:"PB212 · 落地柱盆",dims:"400 × 400 × 860 mm",sub:"floor",img:"/assets/products/PB212/card.webp?v=2"},{code:"PB213",name:"PB213 · 落地柱盆",dims:"—",sub:"floor",img:"/assets/products/PB213/card.webp?v=2"},{code:"PB214",name:"PB214 · 落地柱盆",dims:"—",sub:"floor",img:"/assets/products/PB214/card.webp?v=2"},{code:"PB215",name:"PB215 · 落地柱盆",dims:"—",sub:"floor",img:"/assets/products/PB215/card.webp?v=2"},{code:"PB216",name:"PB216 · 落地柱盆",dims:"—",sub:"floor",img:"/assets/products/PB216/card.webp?v=2"},{code:"PB217",name:"PB217 · 落地柱盆",dims:"—",sub:"floor",img:"/assets/products/PB217/card.webp?v=2"},{code:"PB218",name:"PB218 · 落地柱盆",dims:"—",sub:"floor",img:"/assets/products/PB218/card.webp?v=2"},{code:"PB219",name:"PB219 · 落地柱盆",dims:"—",sub:"floor",img:"/assets/products/PB219/card.webp?v=2"},{code:"PB220",name:"PB220 · 落地柱盆",dims:"—",sub:"floor",img:"/assets/products/PB220/card.webp?v=2"},{code:"WB100",name:"WB100 · 掛牆面盆",dims:"515 × 515 × 440 mm",sub:"wall",img:"/assets/products/WB100/card.webp?v=3"},{code:"WB101",name:"WB101 · 掛牆面盆",dims:"500 × 410 × 400 mm",sub:"wall",img:"/assets/products/WB101/card.webp?v=3"},{code:"WB102",name:"WB102 · 掛牆面盆",dims:"450 × 400 × 390 mm",sub:"wall",img:"/assets/products/WB102/card.webp?v=3"},{code:"WB103",name:"WB103 · 掛牆面盆",dims:"385 × 385 × 610 mm",sub:"wall",img:"/assets/products/WB103/card.webp?v=3"},{code:"WB104",name:"WB104 · 掛牆面盆",dims:"360 × 415 × 445 mm",sub:"wall",img:"/assets/products/WB104/card.webp?v=3"},{code:"WB105",name:"WB105 · 掛牆面盆",dims:"375 × 345 × 420 mm",sub:"wall",img:"/assets/products/WB105/card.webp?v=3"},{code:"WB106",name:"WB106 · 掛牆面盆",dims:"395 × 310 × 385 mm",sub:"wall",img:"/assets/products/WB106/card.webp?v=3"},{code:"WB107",name:"WB107 · 掛牆面盆",dims:"510 × 350 × 390 mm",sub:"wall",img:"/assets/products/WB107/card.webp?v=3"},{code:"WB108",name:"WB108 · 掛牆面盆",dims:"420 × 420 × 390 mm",sub:"wall",img:"/assets/products/WB108/card.webp?v=3"}]},